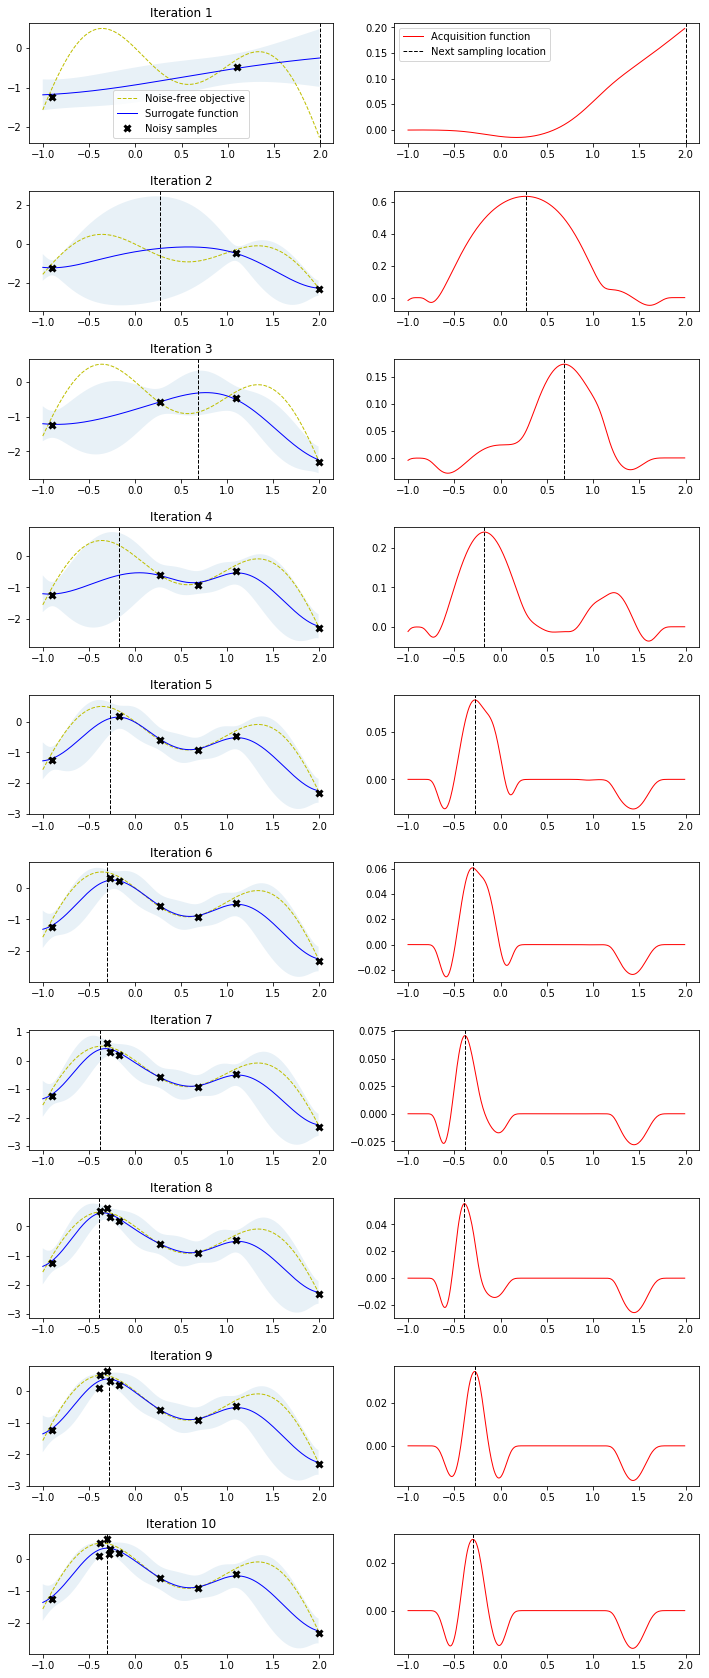
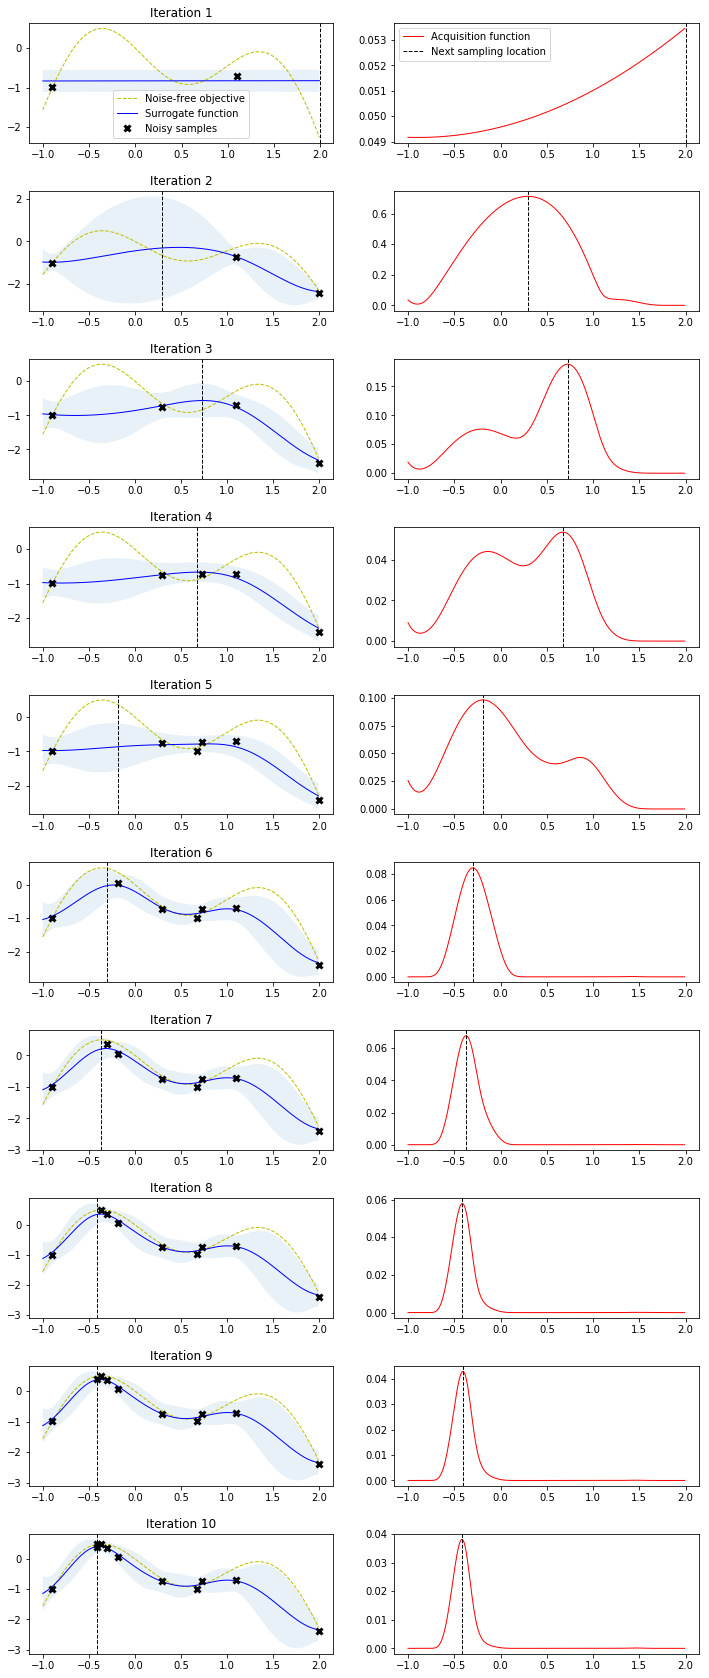
Fix bug in acquisition function

diff --git a/_posts/2018-03-21-bayesian-optimization.md b/_posts/2018-03-21-bayesian-optimization.md
@@ -61,7 +61,7 @@ Z =
 \end{cases}
 $$
 
-where $\mu(\mathbf{x})$ and $\sigma(\mathbf{x})$ are the mean and the standard deviation of the GP pesterior predictive at $\mathbf{x}$, respectively. $\Phi$ and $\phi$ are the PDF and CDF of the standard normal distribution, respectively. The first summation term in Equation (2) is the exploitation term and second summation term is the exploration term.
+where $\mu(\mathbf{x})$ and $\sigma(\mathbf{x})$ are the mean and the standard deviation of the GP pesterior predictive at $\mathbf{x}$, respectively. $\Phi$ and $\phi$ are the CDF and PDF of the standard normal distribution, respectively. The first summation term in Equation (2) is the exploitation term and second summation term is the exploration term.
 
 Parameter $\xi$ in Equation (2) determines the amount of exploration during optimization and higher $\xi$ values lead to more exploration. In other words, with increasing $\xi$ values, the importance of improvements predicted by the GP posterior mean $\mu(\mathbf{x})$ decreases relative to the importance of potential improvements in regions of high prediction uncertainty, represented by large $\sigma(\mathbf{x})$ values. A recommended default value for $\xi$ is $0.01$.
 
@@ -144,7 +144,7 @@ def expected_improvement(X, X_sample, Y_sample, gpr, xi=0.01):
     with np.errstate(divide='warn'):
         imp = mu - mu_sample_opt - xi
         Z = imp / sigma
-        ei = imp * norm.pdf(Z) + sigma * norm.pdf(Z)
+        ei = imp * norm.cdf(Z) + sigma * norm.pdf(Z)
         ei[sigma == 0.0] = 0.0
 
     return ei
